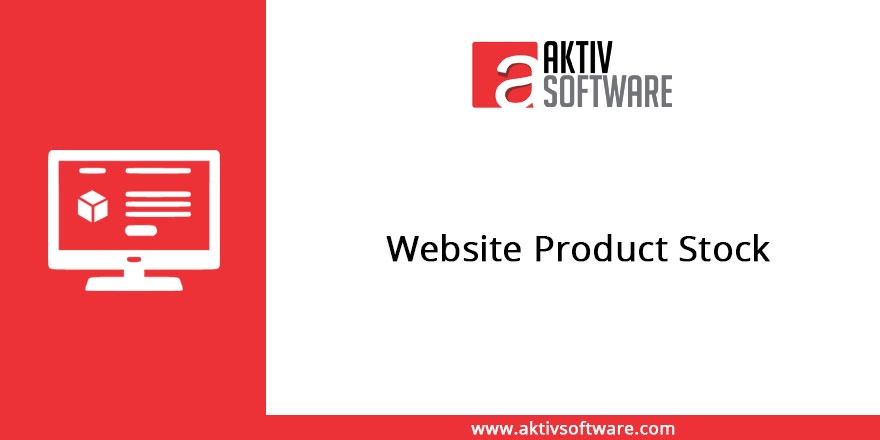
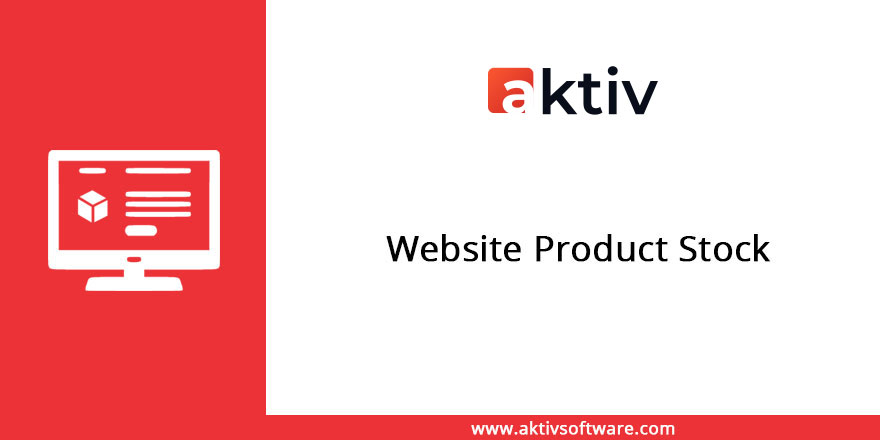
[ADD] change image in 10.0

Changed region(s): [[0.5216, 0.0886, 0.767, 0.2659]]

diff --git a/website_product_stock_aktiv/static/description/index.html b/website_product_stock_aktiv/static/description/index.html
@@ -47,7 +47,7 @@
     <div class="oe_row oe_spaced">
         <h2 class="oe_slogan">
             <a href="http://aktivsoftware.com/" target="new">
-                <img src="http://aktivsoftware.com/wp-content/uploads/2018/01/logo-1.png"/>
+                <img src="aktiv-logo.png"/>
             </a>
             <br/>
             <a href="mailto:sales@aktivsoftware.com" style="color: #000000 !important;">
